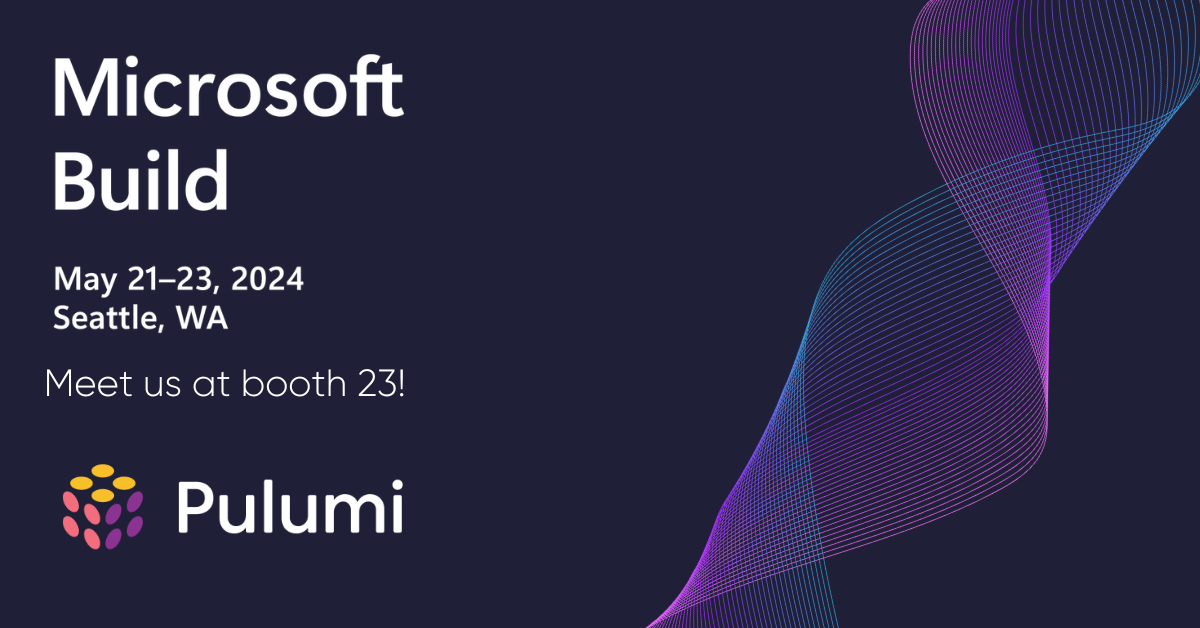
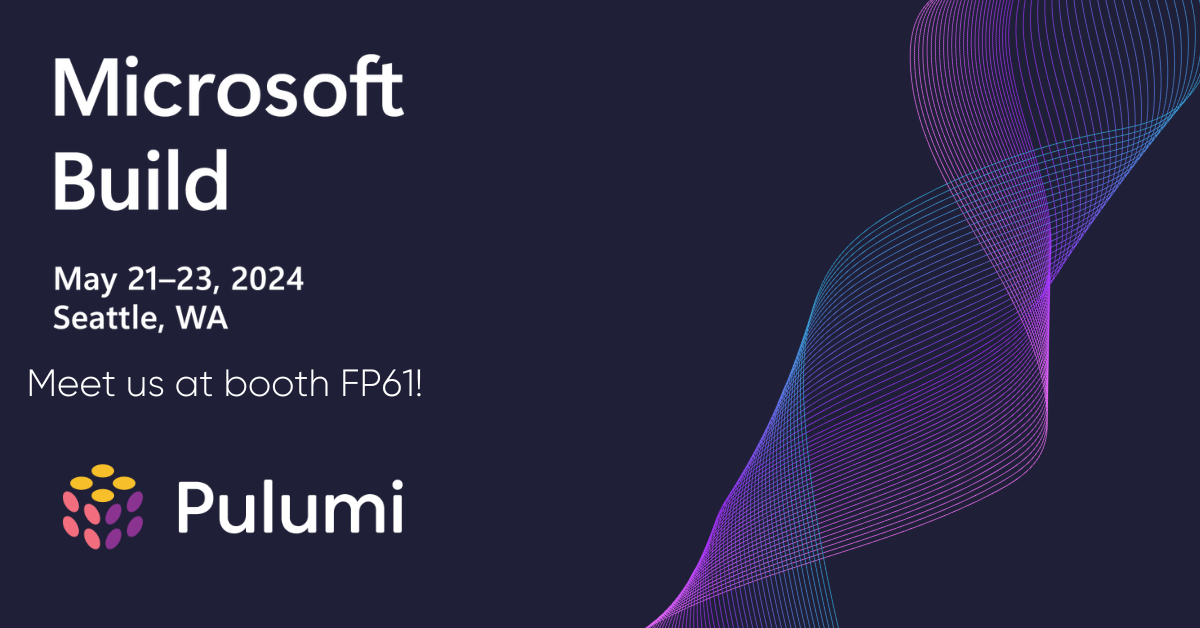
Sarah/mid may resource updates (#4270)
* change ai workshop date to july 10

* add June docker workshop to resources

* add microsoft build happy hour to events

* update meta image for microsoft build

Changed region(s): [[0.0308, 0.5748, 0.37, 0.6354]]

diff --git a/themes/default/content/resources/automating-docker-image-builds-using-pulumi/index.md b/themes/default/content/resources/automating-docker-image-builds-using-pulumi/index.md
@@ -1,7 +1,7 @@
 ---
 # Name of the event, <= 60 characters
-title: Building AI-powered Applications at Pulumi
-meta_desc: Learn how the Pulumi engineering team builds AI-powered capabilities and the lessons learned bringing these features into production.
+title: Automating Docker Image Builds using Pulumi and Docker
+meta_desc: Join our workshop to master automating your Docker build process using Pulumi Docker Build provider and Docker Build Cloud with TypeScript.
 meta_image:
 
 # A featured webinar will display first in the list.
@@ -26,12 +26,12 @@ block_external_search_index: false
 
 # The url slug for the webinar landing page. If this is an external
 # webinar, use the external URL as the value here.
-url_slug: building-ai-powered-applications-at-pulumi
+url_slug: automating-docker-image-builds-using-pulumi
 
 # Content for the left hand side section of the page.
 main:
     # Webinar title.
-    title: Building AI-powered Applications at Pulumi
+    title: Automating Docker Image Builds using Pulumi and Docker
 
     event_type: workshop # workshop | event
 
@@ -39,7 +39,7 @@ main:
     youtube_url:
 
     # Sortable date. The datetime Hugo will use to sort the webinars in date order.
-    sortable_date: 2024-07-10T09:00:00.000-07:00
+    sortable_date: 2024-06-25T09:00:00.000-07:00
 
     # Duration of the webinar.
     duration: 90 minutes
@@ -49,29 +49,31 @@ main:
 
     # Description of the webinar.
     description: |
-        Developers, DevOps, and Platform Engineering teams are increasingly charged with helping their organizations to deliver product innovation using AI capabilities. For the past 18 months, Pulumi has built and shipped a variety a AI-powered capabilities for customers using Pulumi Cloud to manage underlying AI infrastructure.
-
-        In this session, you'll hear from Pulumi Engineering Manager, Aaron Friel about the lessons learned building applications with Large Language Models at Pulumi.
+        In this workshop, you will learn how to automate your Docker build process by leveraging the Pulumi Docker Build provider and Docker Build Cloud. You will use TypeScript to define your infrastructure as code (IaC), including the configuration of Docker builds. Additionally, you will set up a Docker Build Cloud to use external caching to reduce the time required for builds significantly.
 
     learn:
-        - Best practices for experimenting with AI in product development
-        - Architecture and cost considerations when managing AI infrastructure at scale
+        - How to create and configure a Docker Build Cloud (DBC) builder
+        - How to create a Pulumi program in Typescript to define IaC
+        - How to build NGINX Dockerfile in Pulumi and DBC
 
     # The webinar presenters
     presenters:
-        - name: Aaron Friel
-          role: Engineering Manager, Pulumi
-          photo: /images/team/aaron-friel.jpg
+        - name: Diana Esteves
+          role: Solutions Architect, Pulumi
+          photo: /images/team/diana-esteves.jpg
+        - name: Michael Irwin
+          role: Senior Manager, Developer Relations, Docker
+          photo: /images/people/michael-irwin.jpg
 
     # case-sensitive
     tags:
         level: Intermediate # Beginner, Intermediate, Advanced
-        topics: ["AI"]
-        languages: []
+        topics: ["Docker"]
+        languages: ["TypeScript"]
 
 # The right hand side form section.
 form:
     # HubSpot form id.
-    hubspot_form_id: ce41b4a0-18fa-4b5f-a988-ea89178dabae
-    salesforce_campaign_id: 701PQ000008jy1sYAA
+    hubspot_form_id: 64754c08-8bf2-427d-8ded-eac9214c64af
+    salesforce_campaign_id: 701PQ00000CsD30YAF
 ---

diff --git a/themes/default/content/resources/microsoft-build-happy-hour/index.md b/themes/default/content/resources/microsoft-build-happy-hour/index.md
@@ -1,0 +1,67 @@
+---
+# Name of the event, <= 60 characters
+title: AI Infrastructure Happy Hour
+meta_desc: Get ready to mix, mingle, and dive into the world of AI infrastructure at our Happy Hour after Microsoft Build Day 2! Hosted by Pulumi, New Relic, and Pinecone.
+meta_image:
+
+# A featured webinar will display first in the list.
+featured: false
+
+# Webinars with unlisted as true will not be shown on the webinar list
+unlisted: false
+
+# Gated webinars will have a registration form and the user will need
+# to fill out the form before viewing.
+gated: false
+
+# The layout of the landing page.
+type: webinars
+
+# External webinars will link to an external page instead of a webinar
+# landing/registration page. If the webinar is external you will need
+# set the 'block_external_search_index' flag to true so Google does not index
+# the webinar page created.
+external: true
+block_external_search_index: true
+
+# The url slug for the webinar landing page. If this is an external
+# webinar, use the external URL as the value here.
+url_slug: https://lu.ma/hbj9z891
+
+# Content for the left hand side section of the page.
+main:
+    # Webinar title.
+    title: AI Infrastructure Happy Hour
+
+    event_type: event # workshop | event
+
+    # URL for embedding a URL for ungated webinars.
+    youtube_url:
+
+    # Sortable date. The datetime Hugo will use to sort the webinars in date order.
+    sortable_date: 2024-05-22T18:00:00-07:00
+
+    # Duration of the webinar.
+    duration: 3 hours
+
+    # "virtual" will be shown under "show virtual events only", otherwise shown as City, State (seattle, wa)
+    location: Seattle, WA
+
+    # Description of the webinar.
+    description:
+
+    # The webinar presenters
+    presenters:
+
+    # case-sensitive
+    tags:
+        level: # Beginner, Intermediate, Advanced
+        topics: []
+        languages: []
+
+# The right hand side form section.
+form:
+    # HubSpot form id.
+    hubspot_form_id:
+    salesforce_campaign_id:
+---
